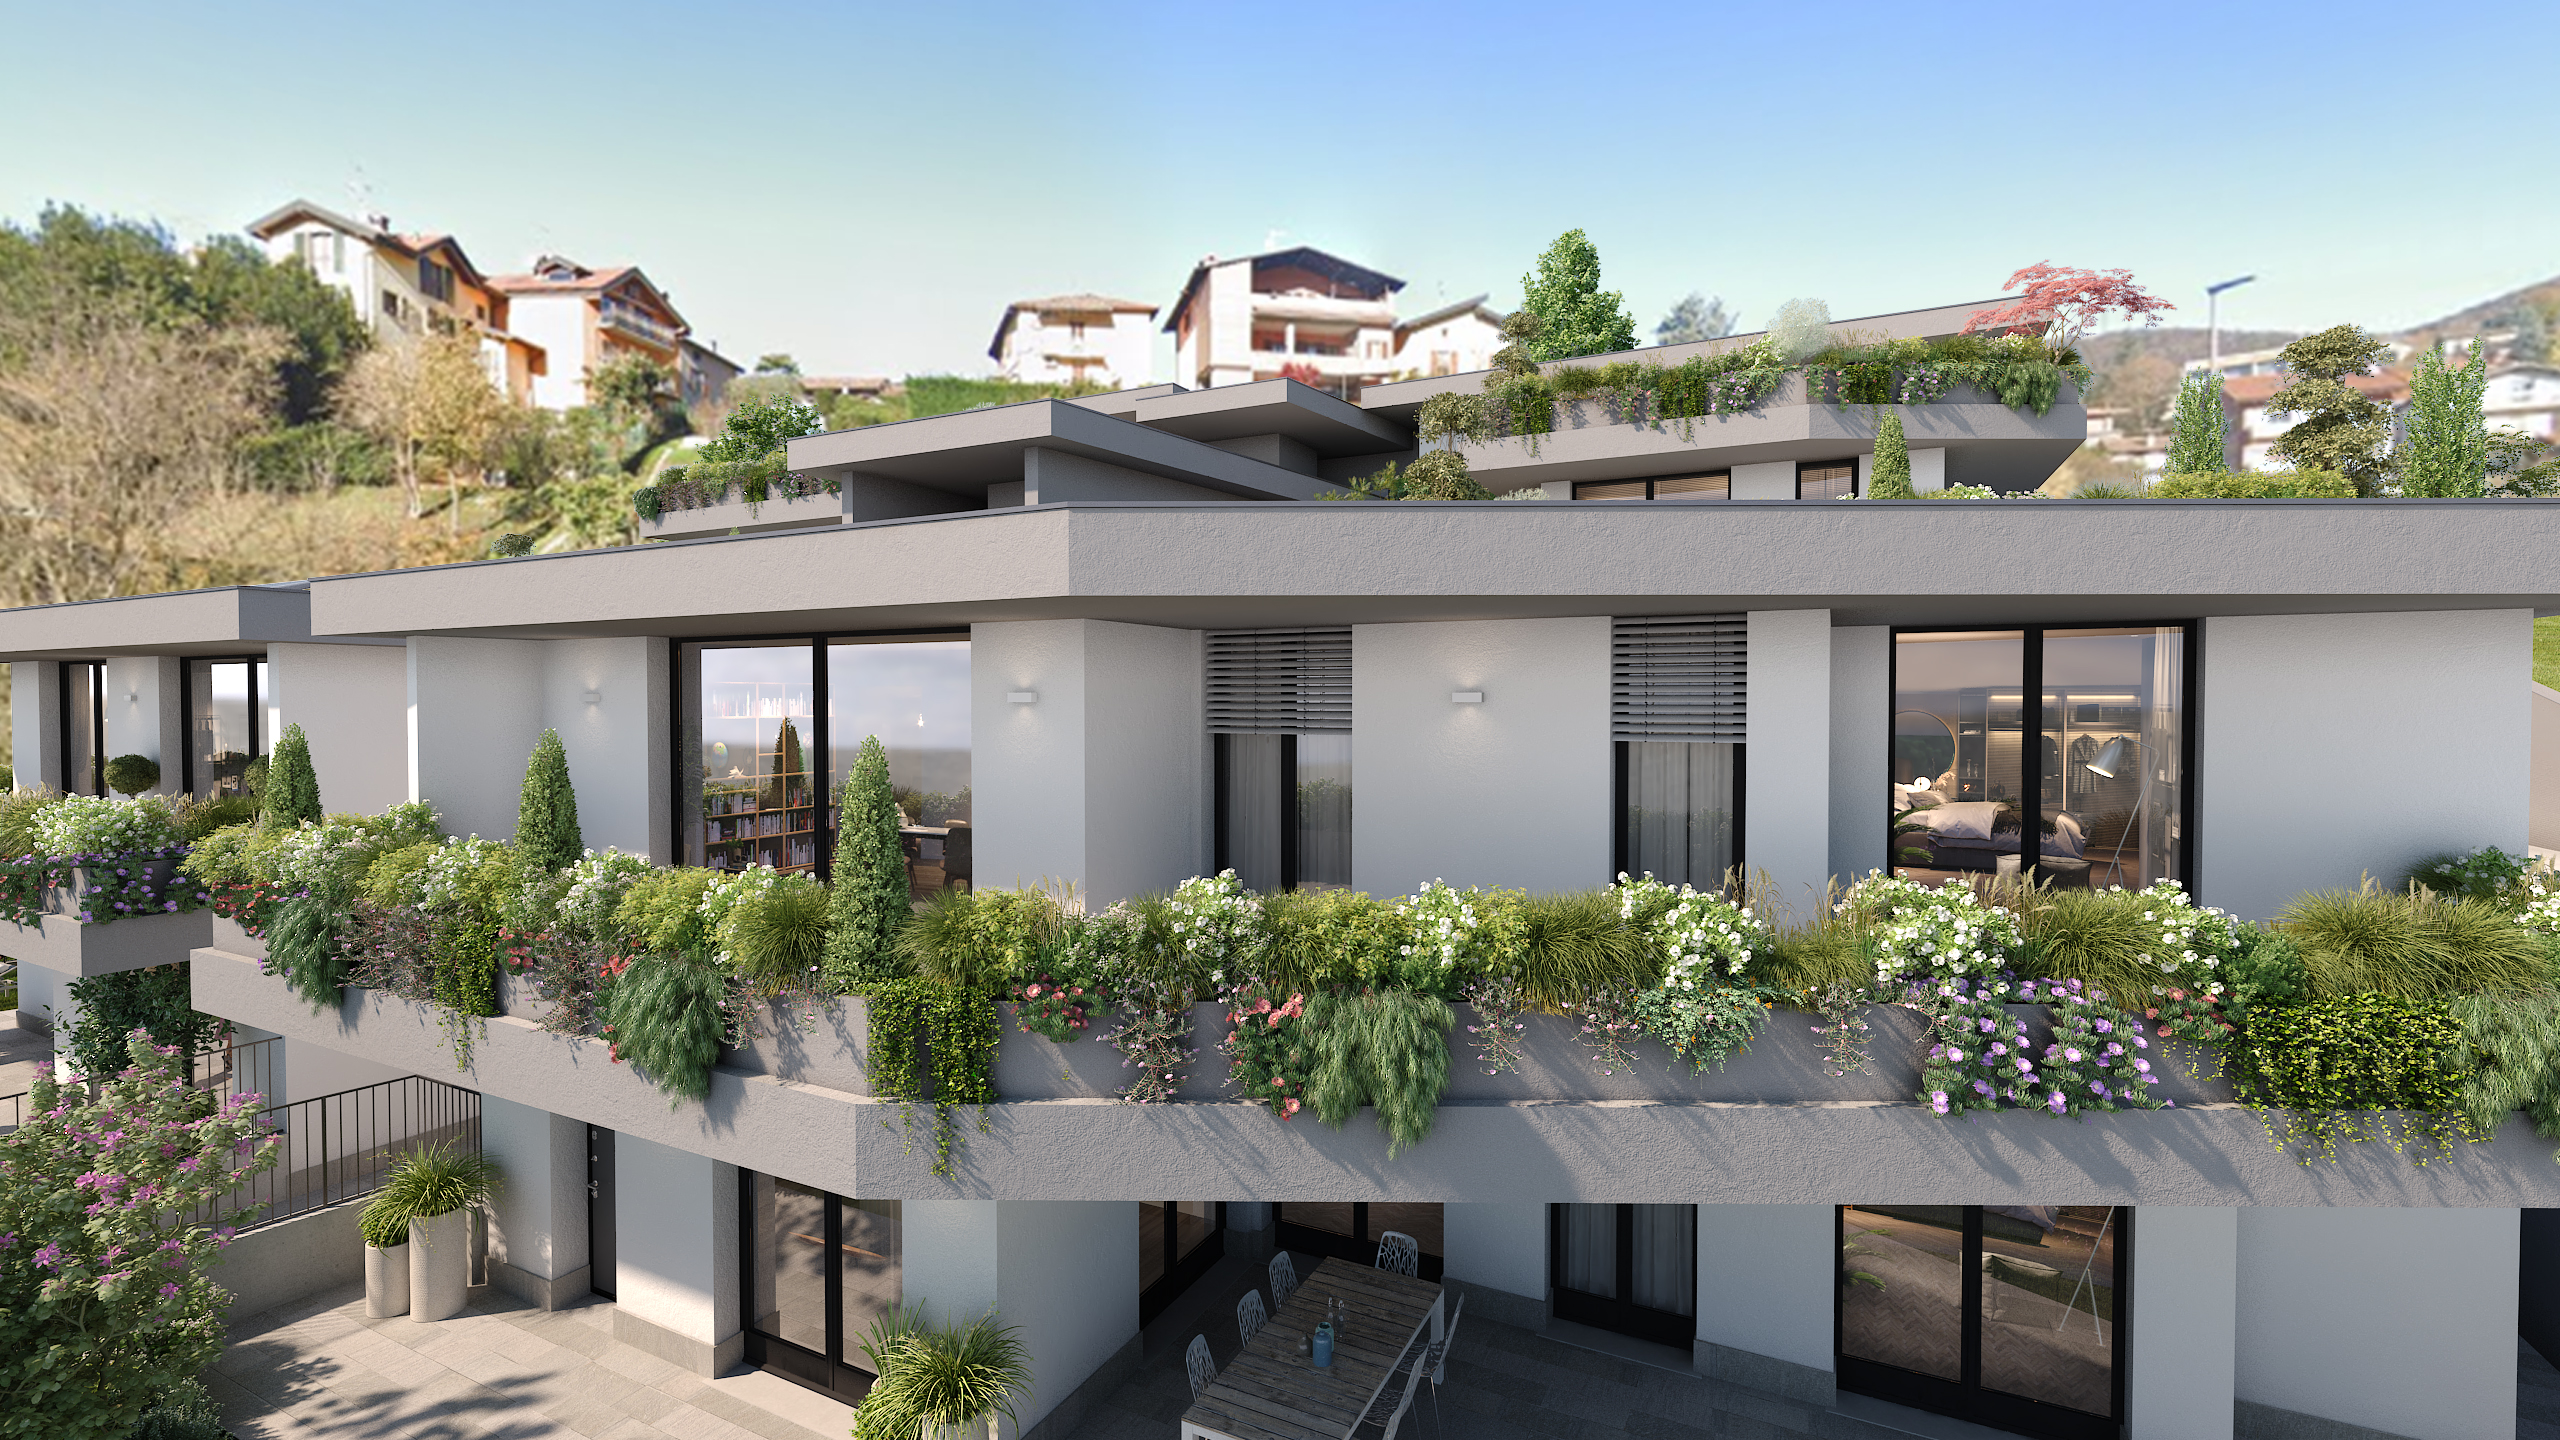
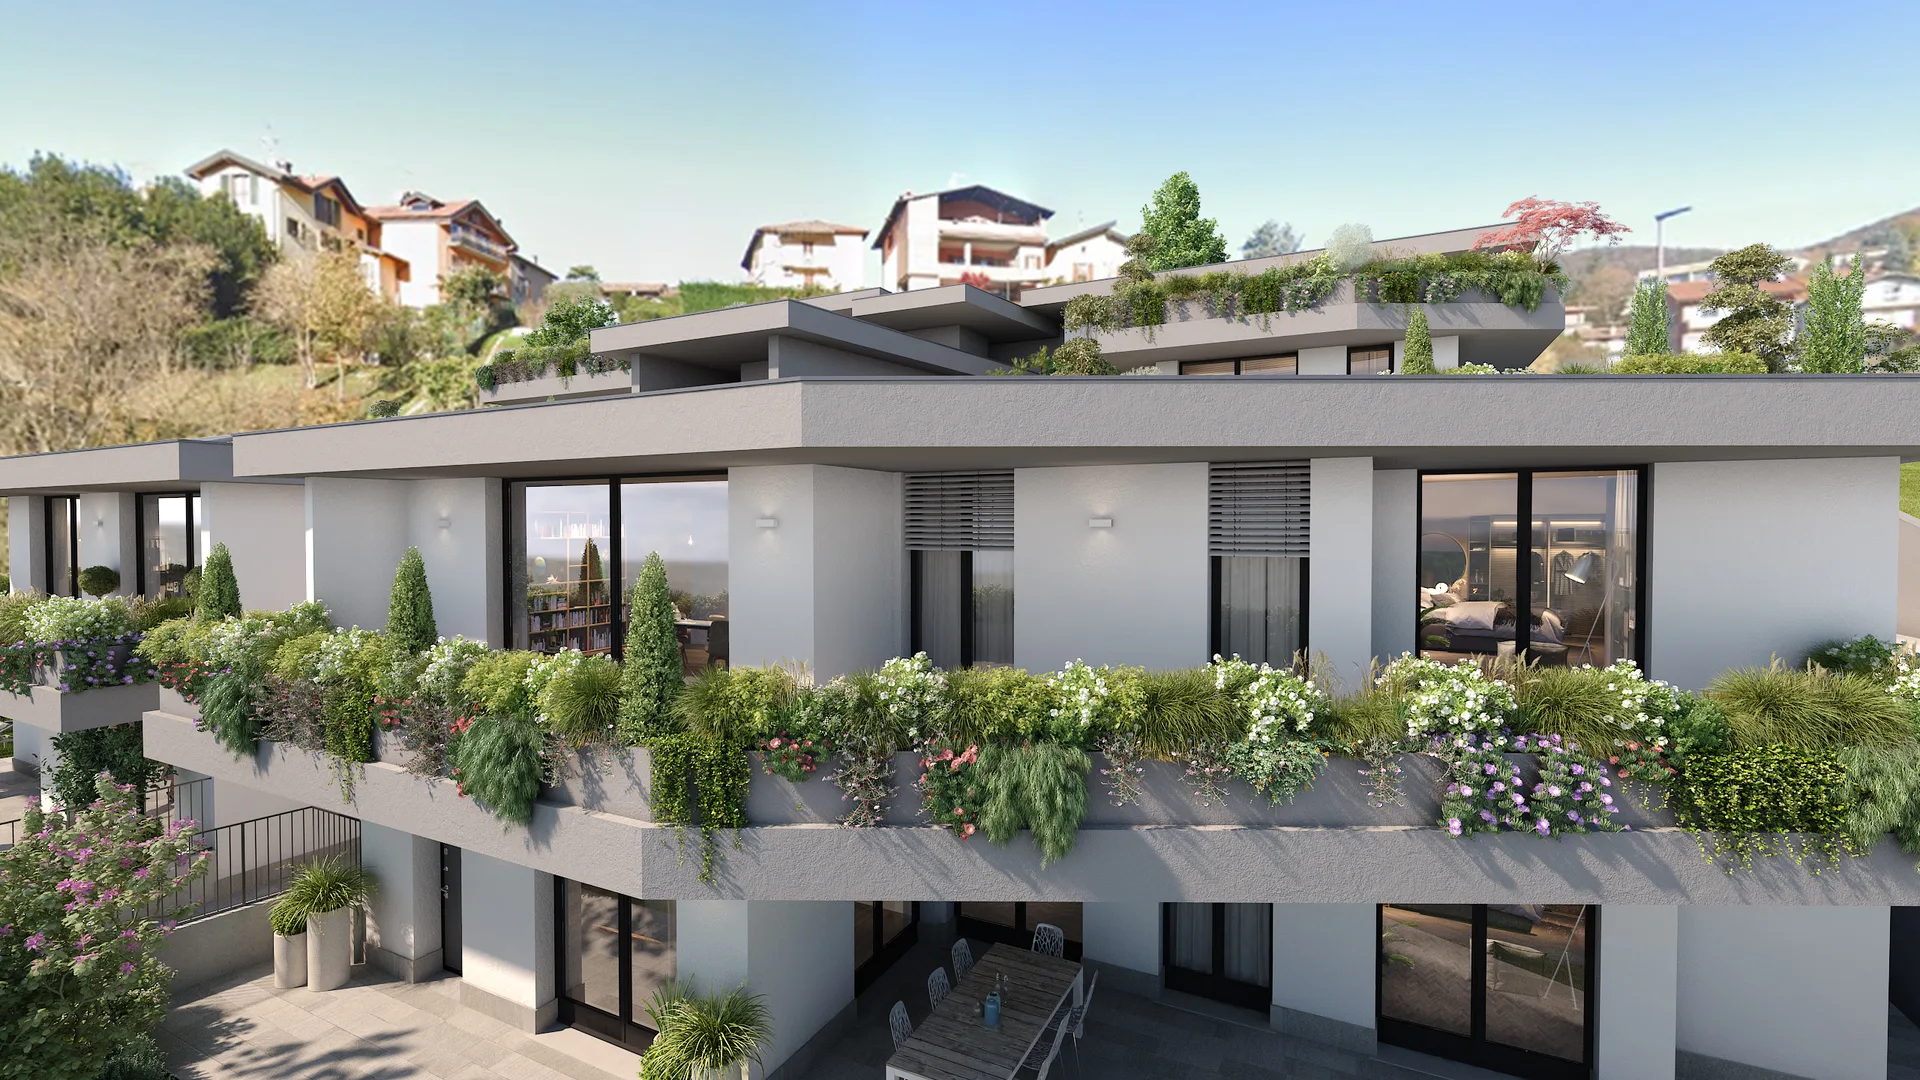
ux(bento+tod): nuove foto bento, copy rovere, TOD stacked-card
- bento-dettaglio.webp: re-encode (3MB JPEG → 364KB WebP)
- bento-piazza.webp: nuova foto (2bento-piazza re-encoded → 647KB WebP)
- Bento card 02: "Pavimenti in rovere prefinito 14 mm" → "Possibilità del pavimento in rovere"
- TOD: refactor da pin+cross-fade a stacked-card (stesso pattern Units)
  - 4 card sticky con scale/opacity/y al passaggio della successiva
  - rimossi tod-content e tod-indicator
- rimossi file temp 2bento-*.webp

diff --git a/src/components/TimesOfDay.tsx b/src/components/TimesOfDay.tsx
@@ -1,5 +1,6 @@
-import { useRef } from 'react'
+import { useRef, type CSSProperties } from 'react'
 import gsap from 'gsap'
+import { ScrollTrigger } from 'gsap/ScrollTrigger'
 import { useGSAP } from '@gsap/react'
 
 type TodState = {
@@ -7,7 +8,6 @@ type TodState = {
   time: string
   title: string
   body: string
-  textColor: string
   img: string
   imgMobile?: string
   alt: string
@@ -19,7 +19,6 @@ const STATES: TodState[] = [
     time: '07:30',
     title: 'La mattina.',
     body: 'Il caffè ha un panorama nuovo. Le terrazze a giardino pensile e la luce dei colli, prima del rumore della città.',
-    textColor: '#1a1a1a',
     img: '/images/tod/dawn.webp',
     imgMobile: '/images/tod/dawn_mobile.webp',
     alt: 'Mattina ELAIA — terrazza con caffè e vista sui colli',
@@ -29,7 +28,6 @@ const STATES: TodState[] = [
     time: '13:00',
     title: 'Il pomeriggio.',
     body: 'Il verde è parte della casa. Lavanda, ulivi, fiori sulla terrazza: la natura non è fuori, è con voi.',
-    textColor: '#1a1a1a',
     img: '/images/tod/day.webp',
     imgMobile: '/images/tod/day_mobile.webp',
     alt: 'Pomeriggio ELAIA — giardino pensile e verde integrato',
@@ -39,7 +37,6 @@ const STATES: TodState[] = [
     time: '20:00',
     title: 'La sera.',
     body: 'Cena sotto le stelle, affacciati sulle luci della valle. Ogni sera diventa un\'occasione.',
-    textColor: '#f5f5f0',
     img: '/images/tod/dusk.webp',
     imgMobile: '/images/tod/dusk_mobile.webp',
     alt: 'Sera ELAIA — cena in terrazza con vista sulla valle',
@@ -49,60 +46,51 @@ const STATES: TodState[] = [
     time: '22:30',
     title: 'La notte.',
     body: 'Il silenzio del Parco dei Colli, le luci di Bergamo Alta in lontananza. Ponteranica come l\'avete sempre immaginata.',
-    textColor: '#f5f5f0',
     img: '/images/tod/night.webp',
     imgMobile: '/images/tod/night_mobile.webp',
     alt: 'Notte ELAIA — silenzio del Parco dei Colli e luci di Bergamo Alta',
   },
 ]
 
+type StackVarStyle = CSSProperties & { '--tod-i': number }
+
 export default function TimesOfDay() {
   const sectionRef = useRef<HTMLElement>(null)
-  const stickyRef = useRef<HTMLDivElement>(null)
+  const cardsRef = useRef<HTMLElement[]>([])
+
+  const setCardRef = (el: HTMLElement | null, i: number) => {
+    if (el) cardsRef.current[i] = el
+  }
 
   useGSAP(
     () => {
+      const cards = cardsRef.current.filter(Boolean)
+      if (cards.length === 0) return
+
       const mm = gsap.matchMedia()
 
-      mm.add('(prefers-reduced-motion: no-preference)', (ctx) => {
-        const conditions = ctx.conditions as { isMobile?: boolean } | undefined
-        const isMobile = conditions?.isMobile ?? window.matchMedia('(max-width: 768px)').matches
+      mm.add('(prefers-reduced-motion: no-preference)', () => {
+        cards.forEach((card, i) => {
+          if (i === cards.length - 1) return
 
-        const section = sectionRef.current
-        const sticky = stickyRef.current
-        if (!section || !sticky) return
-
-        const bgs = sticky.querySelectorAll<HTMLDivElement>('.tod-bg')
-        const states = sticky.querySelectorAll<HTMLDivElement>('.tod-state')
-        const dots = sticky.querySelectorAll<HTMLSpanElement>('.tod-dot')
-        if (bgs.length === 0 || states.length === 0) return
-
-        const numStates = 4
-
-        const tl = gsap.timeline({
-          scrollTrigger: {
-            trigger: section,
-            start: 'top top',
-            end: () => `+=${isMobile ? 160 : 220}%`,
-            pin: sticky,
-            scrub: isMobile ? 0.25 : 0.5,
-            anticipatePin: 1,
-          },
+          gsap.to(card, {
+            scale: 0.9,
+            opacity: 0.15,
+            y: -30,
+            scrollTrigger: {
+              trigger: cards[i + 1],
+              start: 'top top+=100',
+              end: 'top top+=20',
+              scrub: 0.6,
+            },
+          })
         })
 
-        // bg cross-fade + stato testo + dot indicator
-        for (let i = 1; i < numStates; i++) {
-          tl.to(bgs[i - 1], { opacity: 0, duration: 1 }, i)
-            .to(bgs[i], { opacity: 1, duration: 1 }, '<')
-            .to(states[i - 1], { opacity: 0, y: -20, duration: 0.6 }, '<')
-            .to(states[i], { opacity: 1, y: 0, duration: 0.6 }, '<+0.2')
-            .to(dots[i - 1], { width: 8, duration: 0.4 }, '<')
-            .to(dots[i], { width: 32, duration: 0.4 }, '<')
-        }
-      }, { isMobile: window.matchMedia('(max-width: 768px)').matches })
+        ScrollTrigger.refresh()
+      })
 
       mm.add('(prefers-reduced-motion: reduce)', () => {
-        // mostra solo lo stato "day", statico, senza pin
+        gsap.set(cards, { scale: 1, opacity: 1, y: 0 })
       })
 
       return () => mm.revert()
@@ -110,50 +98,32 @@ export default function TimesOfDay() {
     { scope: sectionRef, dependencies: [] },
   )
 
-  const visibleStates = STATES
-
   return (
     <section className="tod" id="times-of-day" ref={sectionRef}>
-      <div className="tod-sticky" ref={stickyRef}>
-        {visibleStates.map((s, i) => (
-          <div
-            key={`bg-${s.key}`}
-            className="tod-bg"
+      <div className="tod-stack">
+        {STATES.map((s, i) => (
+          <article
+            key={s.key}
+            ref={(el) => setCardRef(el, i)}
+            className="tod-card"
             data-state={s.key}
-            style={{ opacity: i === 0 ? 1 : 0 }}
+            style={{ '--tod-i': i } as StackVarStyle}
           >
-            <picture>
-              {s.imgMobile && (
-                <source srcSet={s.imgMobile} media="(max-width: 768px)" />
-              )}
-              <img src={s.img} alt={s.alt} loading="lazy" />
-            </picture>
-          </div>
-        ))}
-
-        <div className="tod-content">
-          {visibleStates.map((s, i) => (
-            <div
-              key={`state-${s.key}`}
-              className="tod-state"
-              style={{ opacity: i === 0 ? 1 : 0 }}
-            >
+            <div className="tod-bg">
+              <picture>
+                {s.imgMobile && (
+                  <source srcSet={s.imgMobile} media="(max-width: 768px)" />
+                )}
+                <img src={s.img} alt={s.alt} loading="lazy" />
+              </picture>
+            </div>
+            <div className="tod-state">
               <p className="eyebrow tod-time">{s.time}</p>
               <h2 className="tod-title serif">{s.title}</h2>
               <p className="tod-body">{s.body}</p>
             </div>
-          ))}
-        </div>
-
-        <div className="tod-indicator" aria-hidden="true">
-          {visibleStates.map((s, i) => (
-            <span
-              key={`dot-${s.key}`}
-              className="tod-dot"
-              style={{ width: i === 0 ? 32 : 8 }}
-            />
-          ))}
-        </div>
+          </article>
+        ))}
       </div>
     </section>
   )

diff --git a/src/index.css b/src/index.css
@@ -2927,18 +2927,25 @@ footer {
   background: var(--ink);
 }
 
-.tod-sticky {
+.tod-stack {
   position: relative;
+  width: 100%;
+}
+
+.tod-card {
+  position: sticky;
+  top: 0;
   width: 100%;
   height: 100vh;
   overflow: hidden;
+  transform-origin: top center;
+  will-change: transform, opacity;
 }
 
 .tod-bg {
   position: absolute;
   inset: 0;
   z-index: 1;
-  transition: opacity 0.6s ease;
 }
 
 .tod-bg::after {
@@ -2959,29 +2966,17 @@ footer {
 /* Override puntuali — SOLO desktop. Su mobile usiamo i file *_mobile.webp
    già ritagliati dall'utente, niente object-position custom */
 @media (min-width: 769px) {
-  .tod-bg[data-state="dawn"] img {
+  .tod-card[data-state="dawn"] .tod-bg img {
     object-position: 30% 35%;
   }
-  .tod-bg[data-state="day"] img {
+  .tod-card[data-state="day"] .tod-bg img {
     object-position: 65% 55%;
     transform: scale(1.5);
     transform-origin: 65% 55%;
   }
-  .tod-bg[data-state="dusk"] img {
+  .tod-card[data-state="dusk"] .tod-bg img {
     object-position: 22% 50%;
   }
-}
-
-.tod-content {
-  position: relative;
-  z-index: 5;
-  display: flex;
-  flex-direction: column;
-  justify-content: flex-end;
-  height: 100%;
-  padding: 0 22px 80px;
-  max-width: 1200px;
-  margin: 0 auto;
 }
 
 .tod-state {
@@ -2992,6 +2987,7 @@ footer {
   max-width: 720px;
   color: var(--cream);
   text-shadow: 0 2px 18px rgba(0, 0, 0, 0.5);
+  z-index: 5;
 }
 
 .tod-time {
@@ -3018,33 +3014,10 @@ footer {
   text-shadow: 0 1px 8px rgba(0, 0, 0, 0.55);
 }
 
-.tod-indicator {
-  position: absolute;
-  right: 22px;
-  top: 50%;
-  transform: translateY(-50%);
-  display: flex;
-  flex-direction: column;
-  gap: 14px;
-  z-index: 6;
-}
-
-.tod-dot {
-  display: block;
-  height: 1.5px;
-  background: var(--cream);
-  width: 8px;
-  transition: width 0.4s ease;
-  opacity: 0.85;
-}
-
 @media (min-width: 768px) {
   .tod-state {
     left: 40px;
     bottom: 100px;
-  }
-  .tod-indicator {
-    right: 40px;
   }
 }
 

diff --git a/src/components/Bento.tsx b/src/components/Bento.tsx
@@ -40,7 +40,7 @@ const CARDS: Card[] = [
     ),
     intro: 'Materiali nobili, dettagli pensati. Niente compromessi.',
     bullets: [
-      'Pavimenti in rovere prefinito 14 mm',
+      'Possibilità del pavimento in rovere',
       'Sanitari sospesi, rubinetterie cromate',
       'Domotica BTicino Living Now integrata',
     ],